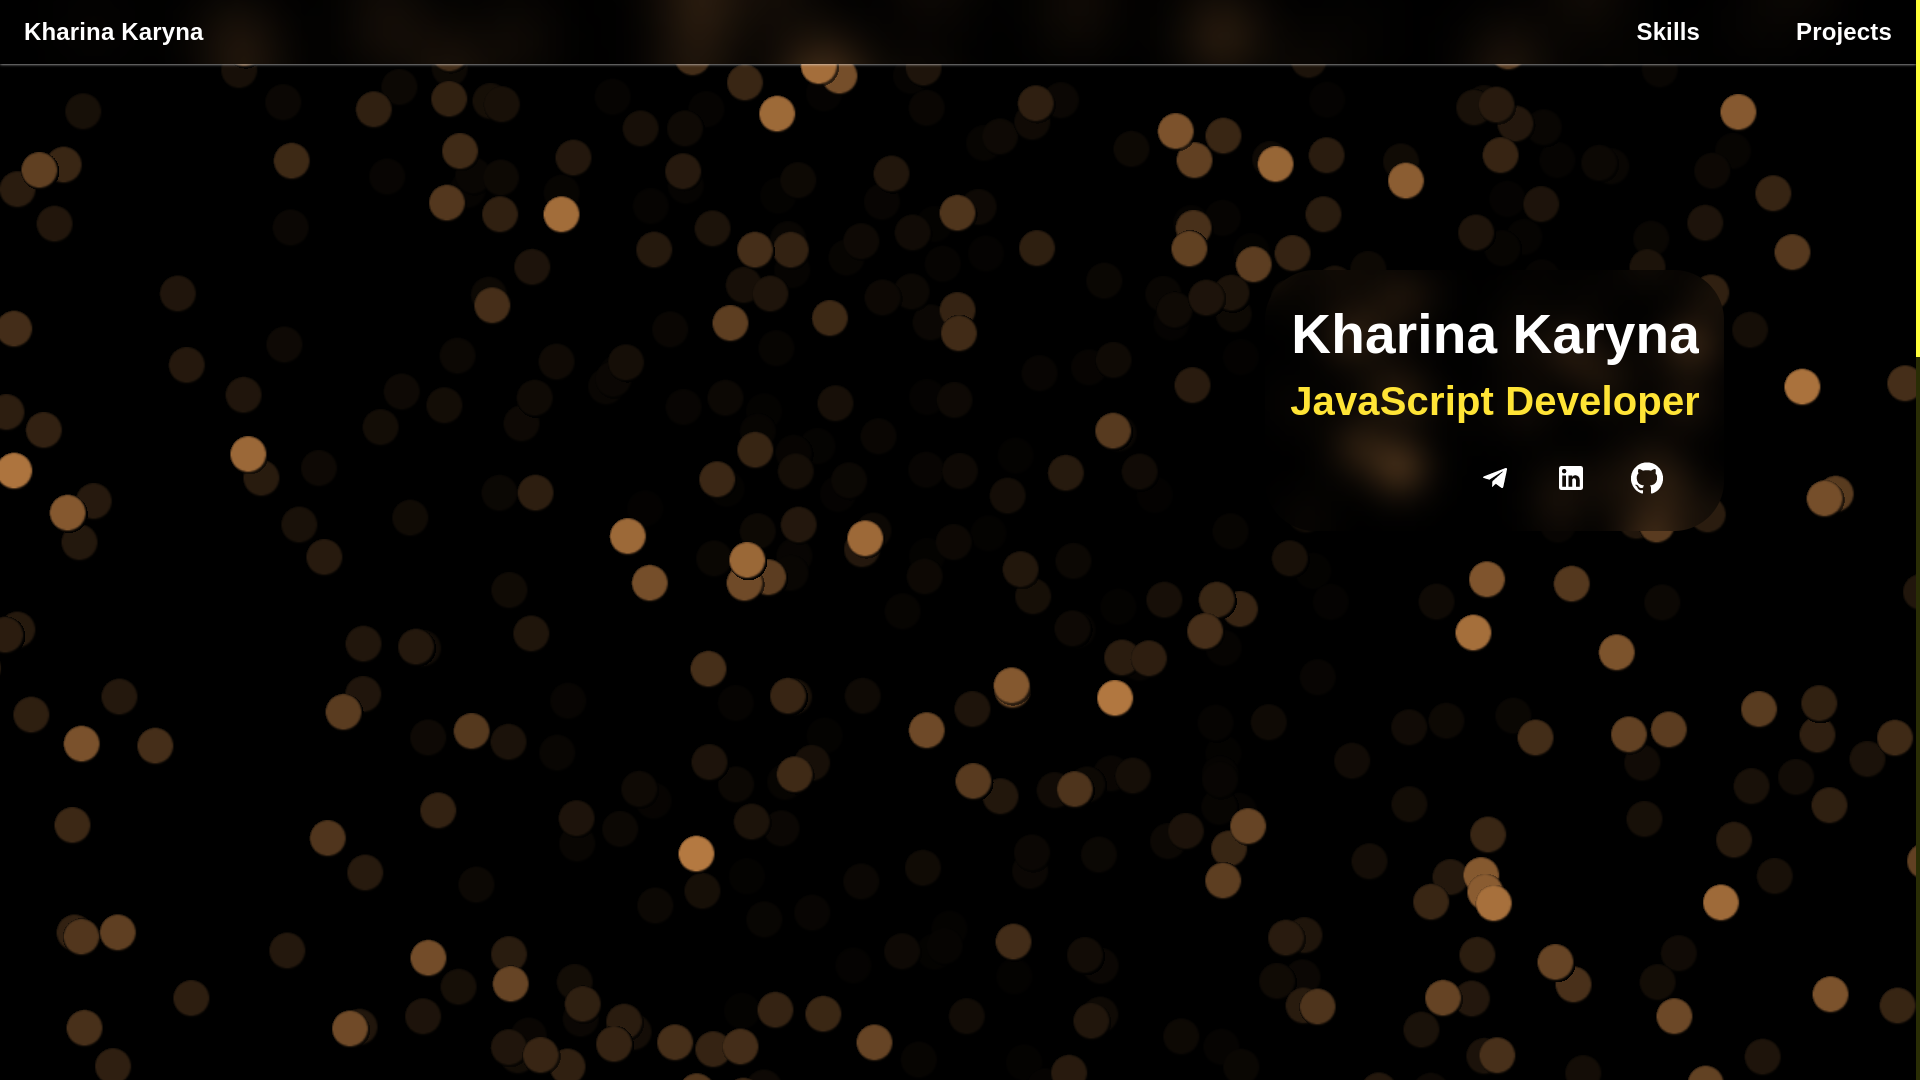
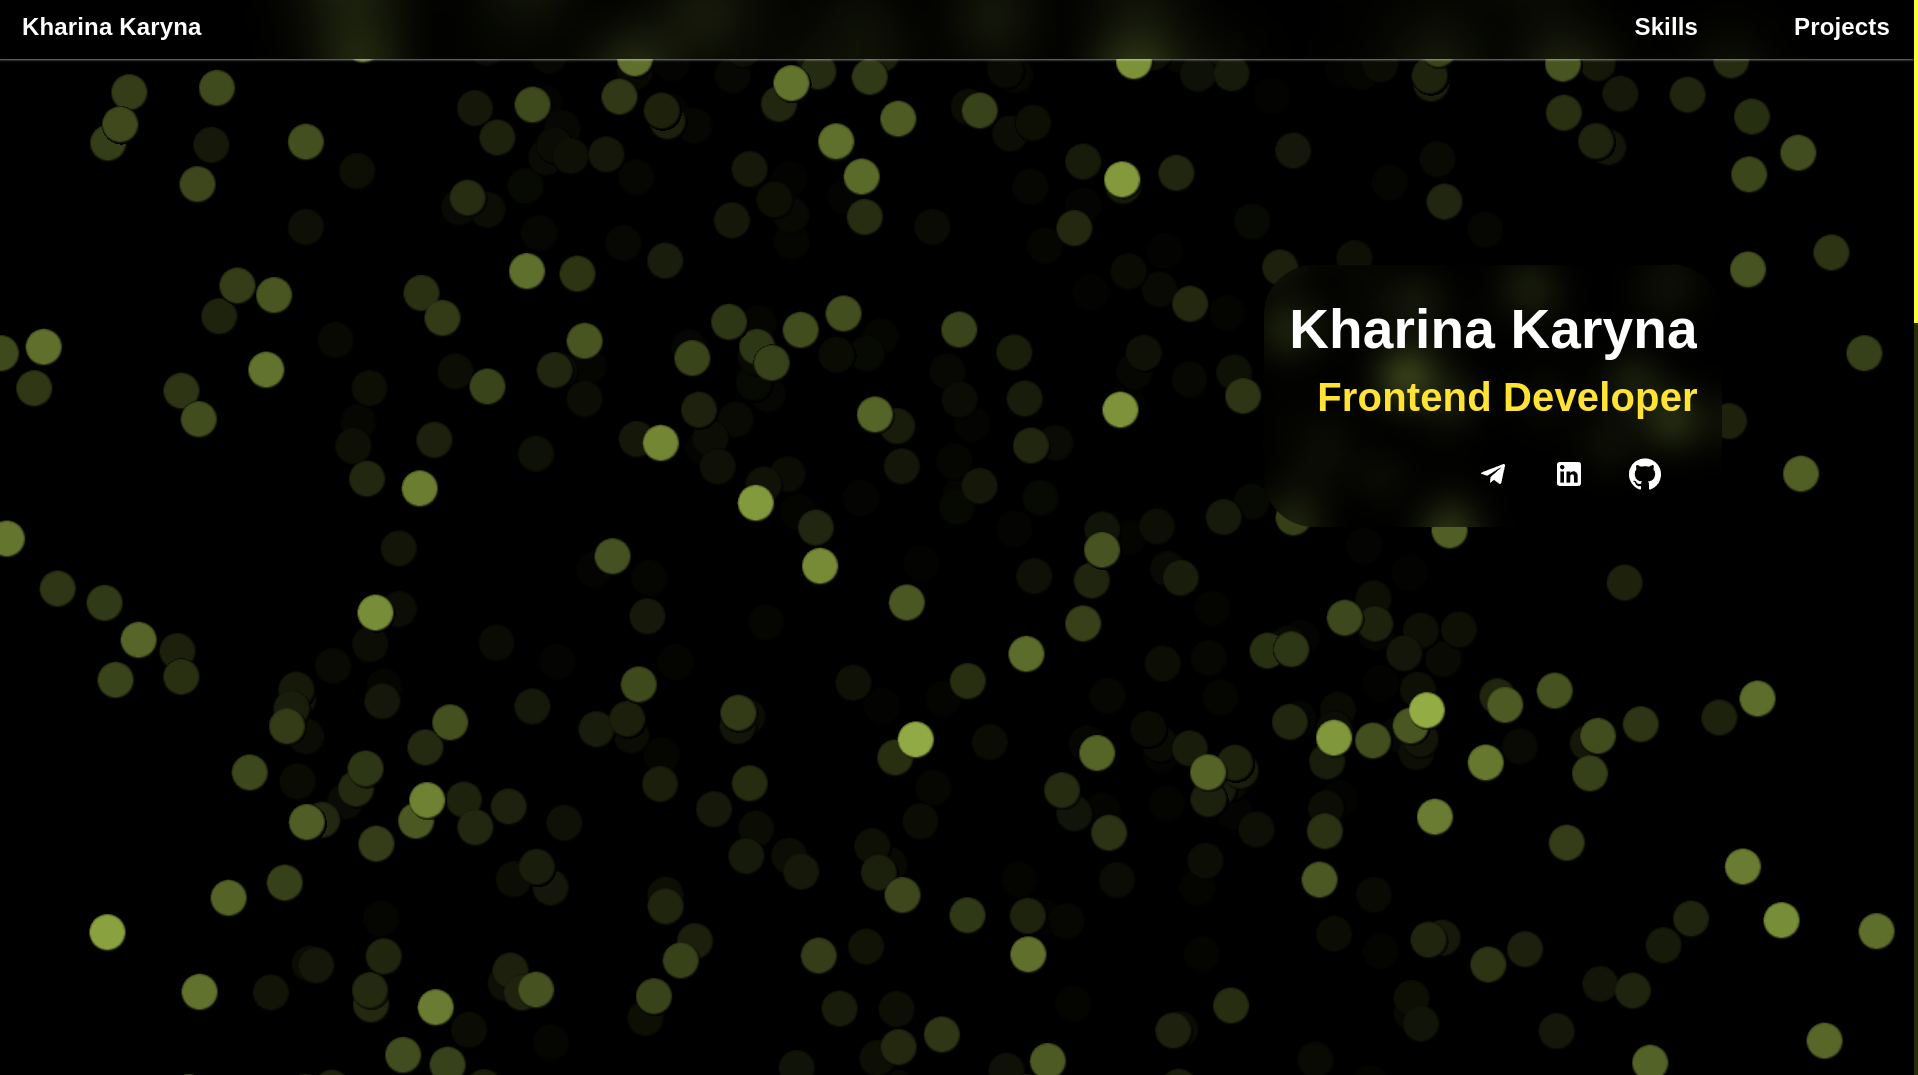
updated preview image

diff --git a/public/index.html b/public/index.html
@@ -5,7 +5,7 @@
     <link rel="shortcut icon" href="favicon.ico" type="image/x-icon"/>
     <meta charset="utf-8">
     <meta name="viewport" content="width=device-width, user-scalable=no, minimum-scale=1.0, maximum-scale=1.0">
-    <meta property="og:title" content="Kharina Karyna JavaScript Developer">
+    <meta property="og:title" content="Kharina Karyna Frontend Developer">
     <meta property="og:url" content="https://karinkaaa.github.io/portfolio/index.html">
     <meta property="og:site_name" content="Portfolio">
     <meta property="og:description" content="Portfolio">
